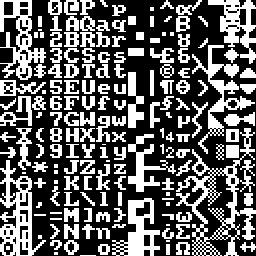
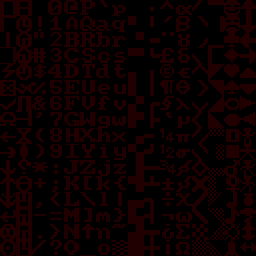
Il y a un pb de compression des JPEG pour le symbols.

diff --git a/src/mod/page.sprite.js b/src/mod/page.sprite.js
@@ -33,7 +33,7 @@ exports.start = function() {
     img.onerror = function(err) {
         console.error( err );
     };
-    img.src = "css/app/symbols.png";
+    img.src = "css/app/symbols.jpg";
 };
 
 
@@ -174,6 +174,5 @@ function save() {
     canvas.height = 256;
     var ctx = canvas.getContext('2d');
     ctx.putImageData(g_imageData, 0, 0);
-console.info("[page.sprite] g_imageData=...", g_imageData);
-    window.open( canvas.toDataURL('image/png', 1.0), "save" );
+    window.open(canvas.toDataURL('image/jpeg', 1.0), 'save');
 }

diff --git a/src/sprite.html b/src/sprite.html
@@ -3,4 +3,5 @@
         <canvas id="zoom" width="481" height="481"></canvas>
         <div id="cursor"></div>
     </div>
+    <canvas id="save" width="256" height="256"></canvas>
 </x-html>
